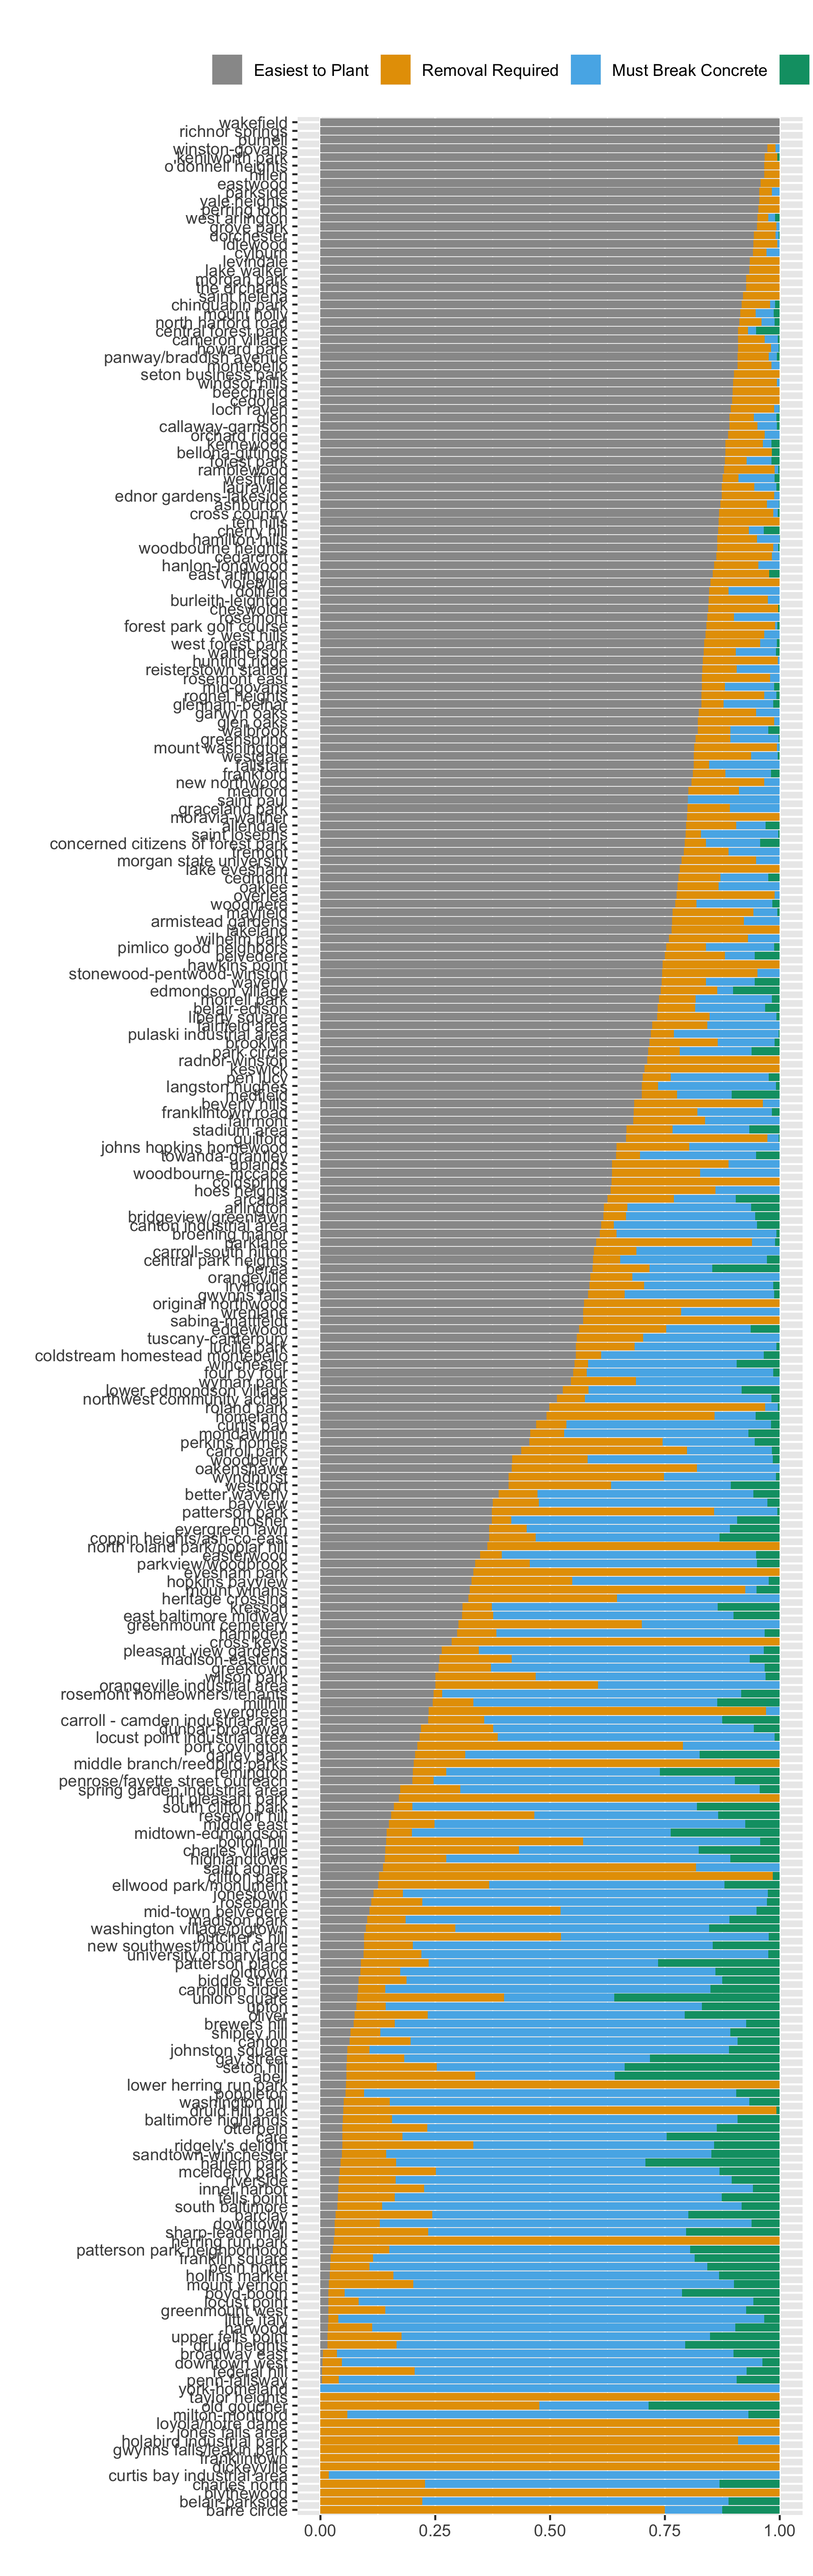
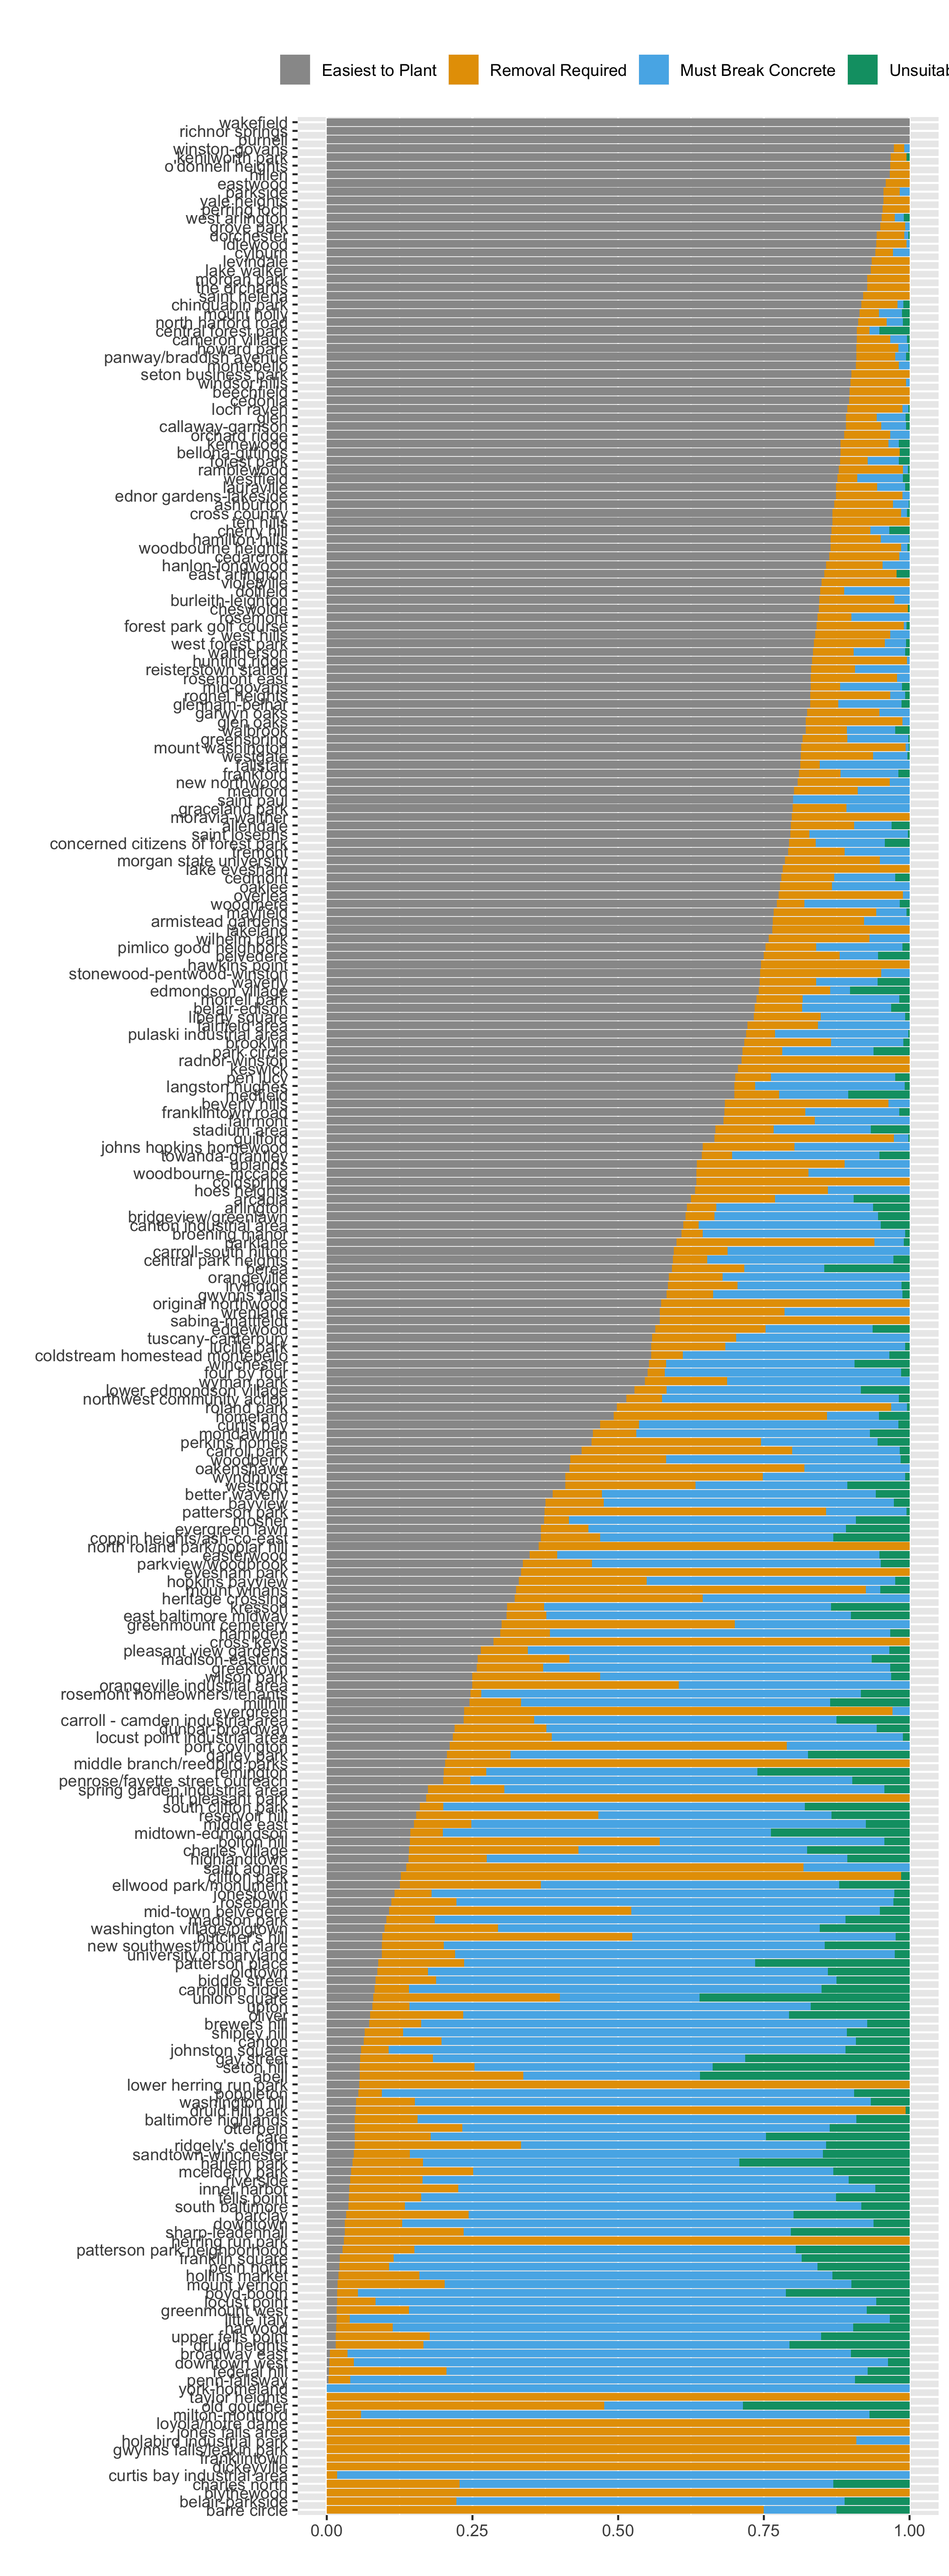
updates

diff --git a/memos/street-tree-analysis-july-01.md b/memos/street-tree-analysis-july-01.md
@@ -156,6 +156,10 @@ _Click to enlarge_
     <td><img src="https://github.com/smussenden/2019-baltimore-climate-health-project-data-repo/blob/master/data/output-data/street-tree-analyses/plots/plantable-spaces/perc_easymoderate_to_tree.png?raw=true" alt="" width="500"/></td>
   </tr>
   <tr>
+    <td><img src="https://github.com/smussenden/2019-baltimore-climate-health-project-data-repo/blob/master/data/output-data/street-tree-analyses/plots/plantable-spaces/plantable_spaces_diff_target_nsas.png?raw=true" alt="" width="500"/></td>
+    <td><img src="https://github.com/smussenden/2019-baltimore-climate-health-project-data-repo/blob/master/data/output-data/street-tree-analyses/plots/plantable-spaces/prop_trees_to_spaces_target_nsas.png?raw=true" alt="" width="500"/></td>
+  </tr>
+  <tr>
     <td></td>
     <td></td>
   </tr>
